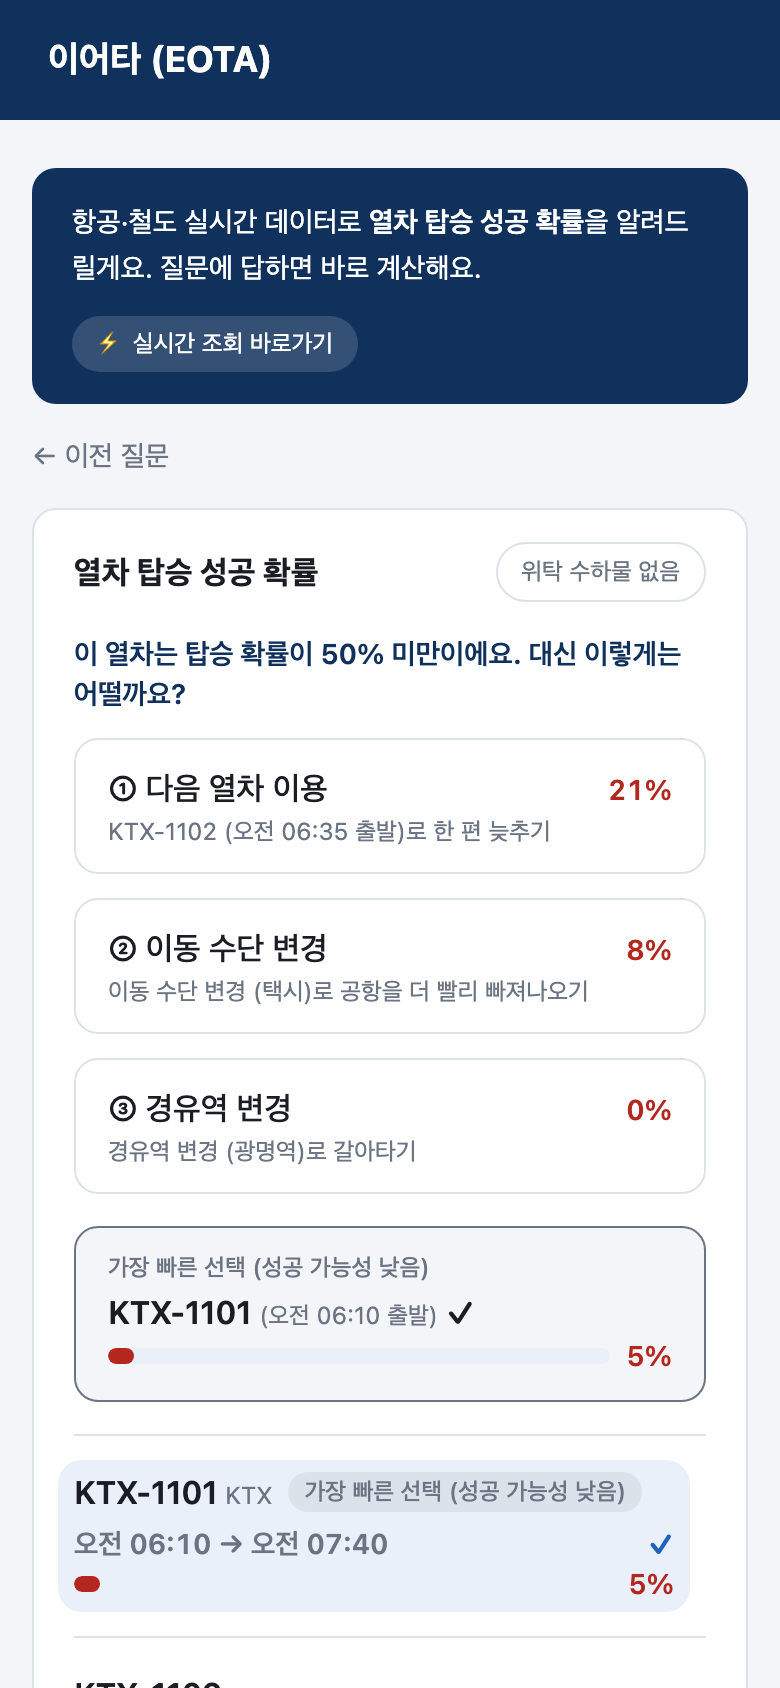
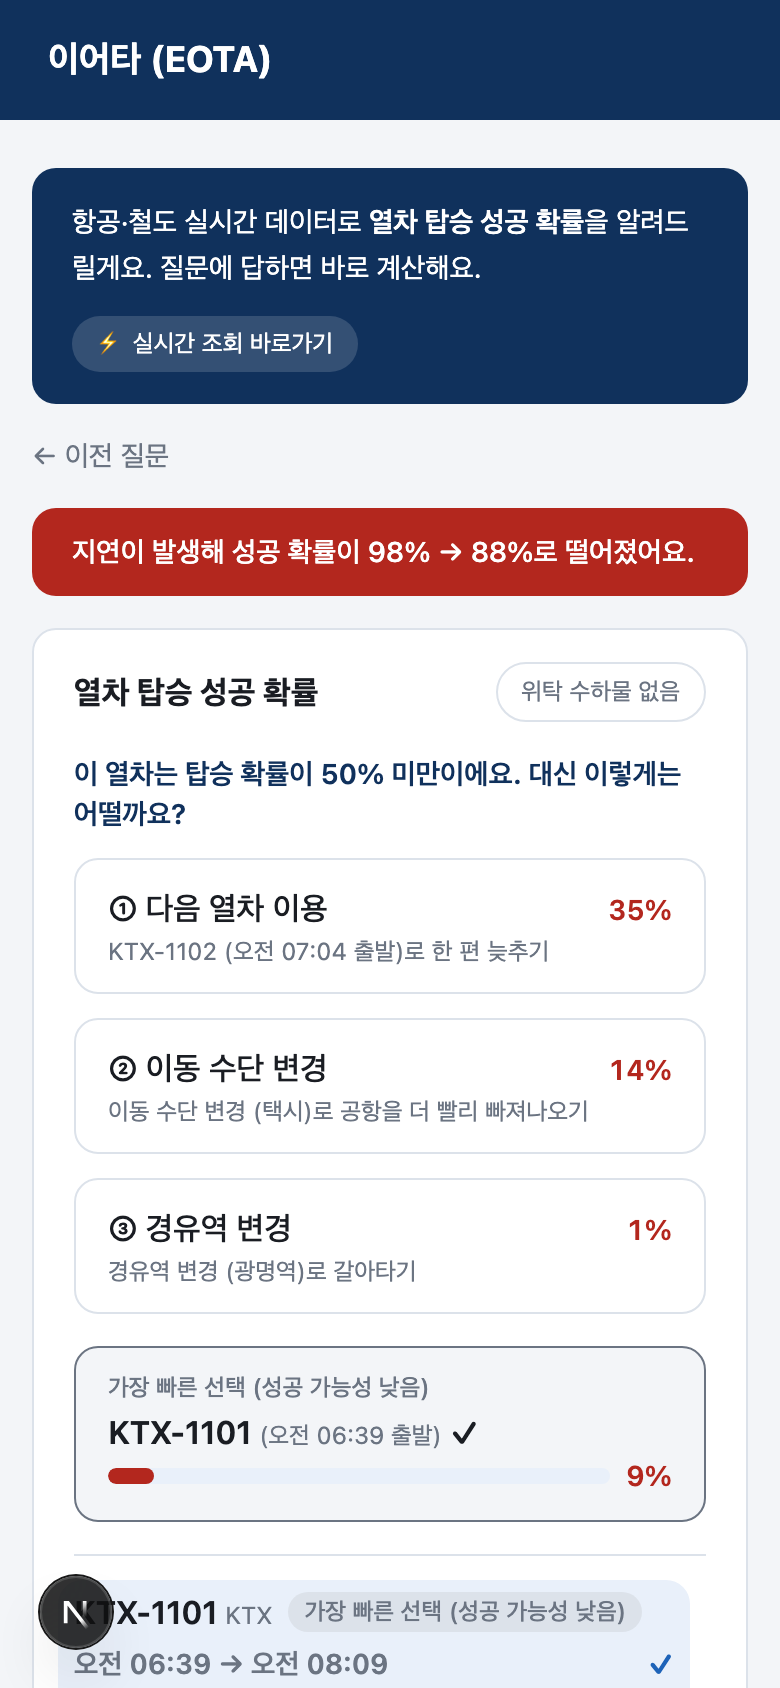
fix: 지연 알림 기준을 첫 결과 확률(baseline) 대비로 변경 — 누적 하락 10%p 이상 시 알림
- simulateDelay/폴링의 prevPct가 직전 상태 대비라 클릭 간 하락 10%p 미만이면 배너가 절대 안 뜨던 버그
- baselinePctRef 도입: 첫 결과 도달 시 확률 고정, 이후 재계산마다 baseline 대비 하락 비교
- goBack(buffer)에서 기준점 리셋

diff --git a/src/app/page.tsx b/src/app/page.tsx
@@ -166,6 +166,7 @@ export default function Home() {
       case 'buffer':
         setResults(null);
         setTypeBResults(null);
+        baselinePctRef.current = null; // 여정 재시작: 알림 기준점 리셋
         setSlots((s) => ({ ...s, bufferTimeMin: null }));
         // 여유 시간 질문으로 복귀 시 관광 섹션도 함께 리셋 (질문 단계에선 안 보여야 함)
         setTourSlackMin(0);
@@ -195,7 +196,12 @@ export default function Home() {
       // 추천 없음(90%+ 미만)이면 최고 확률 열차 기준으로 알림 비교
       const notifyTrain = rec ?? bestTrain(scenarioResults[0]);
       if (rec) finalizeSlack(slackOf(rec), rec.train.trainNo, rec.train.from ?? '서울역');
-      if (prevPct !== undefined) maybeNotify(prevPct, Math.round(notifyTrain.result.probability * 100));
+      if (prevPct !== undefined) {
+        maybeNotify(prevPct, Math.round(notifyTrain.result.probability * 100));
+      } else {
+        // 첫 결과: 알림 비교 기준점 고정 (stale 상태 대신 방금 계산한 확률 직접 사용)
+        baselinePctRef.current = Math.round(notifyTrain.result.probability * 100);
+      }
     } catch {
       setResults(null);
     } finally {
@@ -224,7 +230,11 @@ export default function Home() {
         rec.train.trainNo,
         rec.train.from ?? station,
       );
-      if (prevPct !== undefined) maybeNotify(prevPct, Math.round(rec.result.probability * 100));
+      if (prevPct !== undefined) {
+        maybeNotify(prevPct, Math.round(rec.result.probability * 100));
+      } else {
+        baselinePctRef.current = Math.round(rec.result.probability * 100);
+      }
     } catch {
       setTypeBResults(null);
     } finally {
@@ -279,10 +289,15 @@ export default function Home() {
     return rec ? Math.round(rec.result.probability * 100) : null;
   }
 
+  // Phase 7: 알림 비교 기준점 — 첫 결과 도달 시 확률. 이 값 대비 10%p 이상 하락하면 알림.
+  const baselinePctRef = useRef<number | null>(null);
+
   // Phase 7: 지연 발생 시뮬레이션 — 라이브 어댑터를 건드리지 않고 flightInfo 오버라이드 레이어로 재계산
   async function simulateDelay() {
     if (!flightInfo) return;
-    const prevPct = currentRecPct();
+    // 기준점: 첫 결과 도달 시 확률 대비 하락 비교 (직전 상태 대비가 아니므로
+    // 누적 하락이 10%p 이상이면 알림 — 반복 시뮬레이션에도 동작)
+    const prevPct = baselinePctRef.current ?? currentRecPct();
     const addMin = 15 + Math.floor(Math.random() * 11); // +15~25분
     setSimDelay((d) => d + addMin);
     const overridden: FlightInfo = { ...flightInfo, avgDelayMin: flightInfo.avgDelayMin + addMin };
@@ -314,7 +329,7 @@ export default function Home() {
         if (data.avgDelayMin === lastDelayRef.current) return;
         lastDelayRef.current = data.avgDelayMin;
         setFlightInfo(data);
-        const prevPct = currentRecPct();
+        const prevPct = baselinePctRef.current ?? currentRecPct();
         if (isTypeB) {
           await recomputeTypeB(prevPct, data);
         } else {
